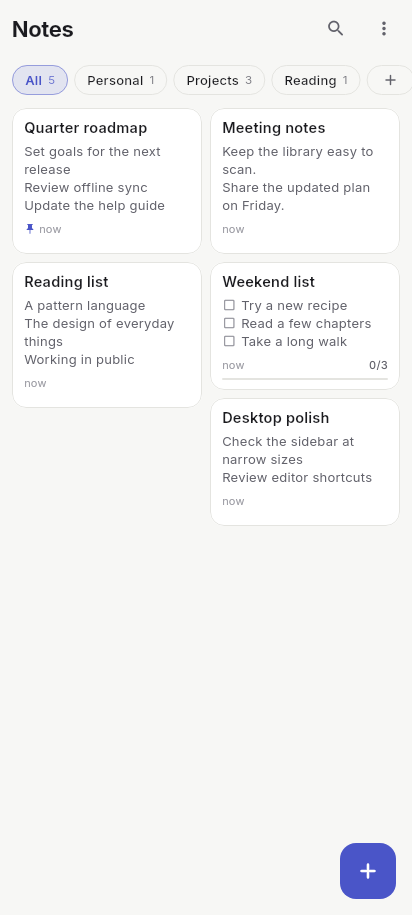
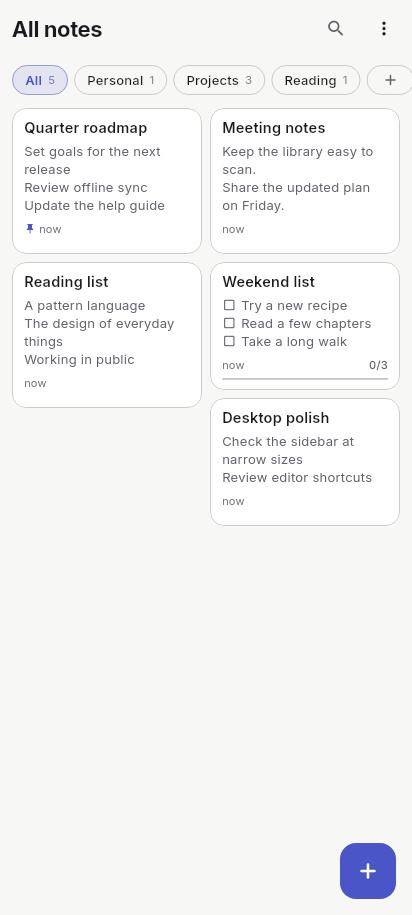
Release 1.1.0 (build 20261124): version, CHANGELOG.md, release notes, docs, README screenshots

Changed region(s): [[0.5534, 0.3978, 0.932, 0.4284], [0.0291, 0.0, 0.2621, 0.0612]]

diff --git a/lib/core/app_version.dart b/lib/core/app_version.dart
@@ -1,9 +1,9 @@
 /// The one place the app learns its own version. `test/core/app_version_test.dart`
 /// checks it against `pubspec.yaml`, so a release bump cannot leave them apart.
-const appVersionName = '1.0.0';
+const appVersionName = '1.1.0';
 
 /// Android versionCode / the pubspec build number. Strictly increasing.
-const appBuildNumber = 20261123;
+const appBuildNumber = 20261124;
 
 /// The version shown in the UI.
 const appVersionText = appVersionName;

diff --git a/README.md b/README.md
@@ -5,7 +5,8 @@ uses a phone layout; on Linux, a desktop sidebar stays beside the library and
 notes open in an editor pane. Notes live in an encrypted local database, with
 optional direct sync between your own devices over a local network. No account
 or cloud service is required. Import and export Markdown notes as well as Notes
-and legacy Notebook backups.
+and legacy Notebook backups. Stable updates can download in the background and
+are installed only after you confirm.
 
 ## Download
 
@@ -14,7 +15,7 @@ and legacy Notebook backups.
 
 [![Get it on Orion Store](https://raw.githubusercontent.com/RookieEnough/Orion-Store/refs/heads/main/assets/orion-badge.png)](https://rookieenough.github.io/Orion-Data/app/?id=notes-app)
 
-The current stable release is [Notes 1.0.0](https://github.com/mmoptibuilds-commits/notes-app/releases/tag/v1.0.0) (build 20261123). Installed
+The current stable release is [Notes 1.1.0](https://github.com/mmoptibuilds-commits/notes-app/releases/tag/v1.1.0) (build 20261124). Installed
 copies of Notes find later stable releases themselves (Settings → About → App
 updates); pre-releases are never offered.
 
@@ -97,15 +98,18 @@ updates an existing installation with an APK signed by the same certificate.
 
 ## Status
 
-Notes 1.0.0 (build 20261123) is the first stable release, published
-2026-11-21: [release page](https://github.com/mmoptibuilds-commits/notes-app/releases/tag/v1.0.0).
+Notes 1.1.0 (build 20261124) is the current stable release:
+[release page](https://github.com/mmoptibuilds-commits/notes-app/releases/tag/v1.1.0).
+The first stable release, Notes 1.0.0, was published 2026-11-21:
+[release page](https://github.com/mmoptibuilds-commits/notes-app/releases/tag/v1.0.0).
 
 On 2026-11-20/21, the app was verified on the owner's Nothing Phone 2 (arm64,
 Android 16) and CachyOS/GNOME laptop: in-place APK upgrade and Linux install
 upgrade kept existing data; QR pairing and automatic LAN sync worked in both
-directions. Tailscale and a real in-app update (which needs a second signed
-release) have not been verified. A firewall subnet change that interrupted
-sync is documented in [Troubleshooting](docs/TROUBLESHOOTING.md).
+directions. The automatic updater now downloads and verifies signed releases,
+but a real in-app upgrade still needs to be verified against a published
+release. Tailscale has not been verified. A firewall subnet change that
+interrupted sync is documented in [Troubleshooting](docs/TROUBLESHOOTING.md).
 
 ## Screenshots
 
@@ -113,6 +117,7 @@ On Linux, a sidebar holds your folders, Archive and Trash, and notes open in
 an editor pane beside the note list:
 
 <p align="center">
+  <img src="docs/screenshots/desktop-library-charcoal.png" alt="Linux desktop: sidebar and note list" width="820" />
   <img src="docs/screenshots/desktop-editor-charcoal.png" alt="Linux desktop: sidebar, note list and editor pane" width="820" />
 </p>
 
@@ -120,9 +125,8 @@ On Android, Notes keeps a phone layout with the formatting toolbar above the
 keyboard:
 
 <p align="center">
-  <img src="docs/screenshots/library.png" alt="Android library" width="205" />
-  <img src="docs/screenshots/note-editor.png" alt="Android editor" width="205" />
   <img src="docs/screenshots/phone-library-light.png" alt="Android library, light theme" width="205" />
+  <img src="docs/screenshots/phone-editor-light.png" alt="Android editor, light theme" width="205" />
 </p>
 
 Screenshots use synthetic notes (`test/visual/review_screens_test.dart`).
@@ -131,7 +135,9 @@ Screenshots use synthetic notes (`test/visual/review_screens_test.dart`).
 
 - **Local-first storage:** notes saved in an encrypted local SQLite database; no account required.
 - **Rich text editing:** headings, lists, checklists, blockquotes, code blocks, links and inline formatting.
-- **Organized library:** folders, search, grid/masonry/list layouts, sorting and preview controls.
+- **Organized library:** Unfiled is the default start view; choose Unfiled, All
+  notes or Last viewed. Folders, search, grid/masonry/list layouts, sorting and
+  preview controls keep notes easy to browse.
 - **Appearance:** AMOLED, charcoal and light themes; adjustable typography and animation preferences.
 - **Import and export:** import Markdown files (one note per file), export a
   note as Markdown, import legacy Notebook backup JSON, and export or restore
@@ -139,6 +145,9 @@ Screenshots use synthetic notes (`test/visual/review_screens_test.dart`).
 - **Device sync:** pair your own devices by QR code or copied code, then sync
   directly over the local network with an encrypted connection. No relay server
   is used.
+- **Stable updates:** Notes checks for stable releases and can download them in
+  the background when automatic updates are enabled. You confirm installation
+  through Android's installer or, on Linux, through a managed installation.
 
 ## Build from source
 
@@ -170,6 +179,7 @@ with a different key cannot update an existing installation. See
 - [Troubleshooting](docs/TROUBLESHOOTING.md)
 - [Development guide](docs/DEVELOPMENT.md)
 - [Release notes](docs/RELEASE_NOTES.md)
+- [Changelog](CHANGELOG.md)
 - [Architecture decisions](docs/DECISIONS.md)
 - [Provenance review](docs/PROVENANCE.md)
 - [Third-party licences](docs/THIRD_PARTY_LICENSES.md)

diff --git a/docs/UPDATES.md b/docs/UPDATES.md
@@ -32,11 +32,13 @@ downloads. Manual Check, Download and Install remain available.
 
 When an automatic check finds a newer signed release, Notes downloads the
 artifact in the background. A partial transfer has a small sidecar bound to its
-HTTPS URL, version, declared size and SHA-256; it records the server ETag when
-available. Resume sends `Range` and `If-Range`, accepts only a matching 206
-`Content-Range`, and restarts from byte zero if the server ignores the range or
-changes its ETag. Notes hashes the complete file before atomically renaming it.
-Cancellation, network loss and low storage leave a recoverable paused state.
+HTTPS URL, version, declared size and SHA-256. Resume is allowed only when the
+partial has a strong server ETag and the server confirms the same ETag and a
+matching 206 `Content-Range` for the requested byte range. If there is no strong
+ETag, the server ignores the range, or the ETag changes, Notes starts a fresh
+download from byte zero. It hashes the complete file before atomically renaming
+it. Cancellation, network loss and low storage leave a recoverable paused
+state; the next attempt still verifies the complete file.
 
 After verification Notes persists a compact ready record containing the raw
 manifest bytes and signature, artifact metadata and release address. Android
@@ -145,10 +147,11 @@ it. Status is written to
 The helper holds `${stateDir}/lock` with `flock` from before its process scan
 through the swap. Startup checks the same lock before opening the database,
 waiting up to ten seconds before showing a clear retry message. The helper
-checks free space on the install parent for extraction and staging before it
-creates either directory. The helper never accesses the notes database,
-keyring, backups, or pairing data. It requires GNU tar, `flock`, `sha256sum`,
-`df`, and `/proc`.
+relaunches the updated Notes app after a successful swap and reopens the
+previous app after a failed update. It checks free space on the install parent
+for extraction and staging before it creates either directory. The helper
+never accesses the notes database, keyring, backups, or pairing data. It
+requires GNU tar, `flock`, `sha256sum`, `df`, `/proc` and `setsid` for relaunch.
 
 Rollback is automatic only when the program-directory swap fails. After a new
 version has opened the database, an older version may reject that database
@@ -166,6 +169,7 @@ permission only after the user taps Install. After replacement, a private
 receiver checks that the pending versionCode matches the installed package and
 posts “Notes updated — tap to open” with an explicit Activity PendingIntent. It
 never launches an Activity from the background. If notifications are denied,
-the next launch shows the one-time “Updated to version X” result instead.
+the update still completes and the next launch shows the one-time “Updated to
+version X” result instead.
 Distribution through Google Play would need to use Play's update flow and
 signing identity rather than direct APK delivery.

diff --git a/CHANGELOG.md b/CHANGELOG.md
@@ -1,0 +1,60 @@
+# Changelog
+
+All notable changes to Notes are recorded here.
+
+## [1.1.0] - 2026-11-21
+
+### Added
+
+- Choose whether Notes opens to Unfiled, All notes or the last viewed library
+  view. Unfiled is the default.
+- Automatic update downloads, a ready-to-install prompt, safe resume after an
+  interrupted download and restoration of a verified ready update after a
+  restart.
+- An Android “Notes updated” notification with a shortcut back to the app.
+- Linux updates that relaunch Notes after replacing a managed installation.
+
+### Changed
+
+- Redesigned the overflow menu, with destinations first and Settings last.
+- Placed Unfiled after All notes in the library navigation and titled the phone
+  view “All notes”.
+- Improved text contrast, card borders and empty-library guidance.
+- Kept phone search results in one column and improved the settings layout at
+  larger text sizes.
+
+### Fixed
+
+- Local edits made during a sync now receive a follow-up sync.
+- Update downloads safely restart when a server cannot confirm a partial file;
+  failed Linux updates reopen the previous app.
+- Improved touch targets and toolbar accessibility at small and large sizes.
+
+### Security
+
+- Release updates continue to use the existing signed manifest and pinned
+  platform signing checks; the trust keys and trust chain are unchanged.
+- A partial update resumes only when the server confirms the same strong ETag.
+  Notes verifies the complete file again before offering installation.
+
+## [1.0.0] - 2026-11-21
+
+### Added
+
+- Encrypted local notes with rich-text editing, search, folders, pinning,
+  archive, Trash, and three appearance themes.
+- Direct encrypted sync between up to five of the owner's devices, with QR or
+  copied-code pairing.
+- Markdown import and export, legacy Notebook backup import, and Notes JSON
+  export and restore.
+- Android phone and Linux desktop layouts, including a persistent desktop
+  sidebar and side-by-side editor.
+- First-run welcome and Help screens, keyboard shortcuts, and settings for
+  appearance, editing and library layout.
+- Signed stable update checks and platform installers for Android and managed
+  Linux installs.
+
+### Security
+
+- Encrypted the local database and authenticated direct device sync.
+- Verified stable update manifests and artifacts before installation.

diff --git a/docs/TROUBLESHOOTING.md b/docs/TROUBLESHOOTING.md
@@ -110,13 +110,16 @@ manual verification steps in the [README](../README.md#verify-a-linux-download).
 **Symptom:** Settings → Updates shows a paused download, a network error or a
 message that there is not enough free space.
 
-**Cause:** Notes keeps a matching partial download so it can resume safely.
-Insufficient storage also prevents the update from being finalized or staged.
+**Cause:** Notes keeps a partial download only when its release details match.
+It resumes only if the server confirms the same strong ETag and byte range;
+otherwise it starts again from the beginning. Insufficient storage can prevent
+the download from completing or, on Linux, prevent staging beside the install.
 
-**Fix:** Reconnect or free space, then choose **Resume download** or **Retry
-download**. Notes validates the resumed response and hashes the complete file
-again before it is marked ready. On Linux, staging also needs free space beside
-the managed installation.
+**Fix:** Reconnect or free space on the device, then choose **Resume download**
+or **Retry download** in Settings → About → App updates. A server without a
+matching strong ETag may cause Notes to download the file again from the start.
+Notes checks the complete file before it is marked ready. Linux also needs free
+space beside the managed installation for staging.
 
 ## Notes says it is finishing an update
 
@@ -124,11 +127,13 @@ the managed installation.
 then open Notes again.”
 
 **Cause:** The Linux update helper holds the per-user lock while it replaces the
-program files. Startup waits for that lock before opening the database.
+program files. Startup waits for that lock before opening the database, for up
+to ten seconds.
 
-**Fix:** Wait for the helper to finish and start Notes again. If the message
-continues after a minute, read `~/.local/state/com.mmoptibuilds.notes/updater/update.json`
-for the helper result and contact the project maintainer.
+**Fix:** Wait for the helper to finish; it relaunches Notes after the swap. If
+the message continues after a minute, read
+`~/.local/state/com.mmoptibuilds.notes/updater/update.json` for the helper
+result and contact the project maintainer.
 
 ## Android says “App not installed”
 

diff --git a/docs/RELEASE_NOTES.md b/docs/RELEASE_NOTES.md
@@ -1,3 +1,43 @@
+# Notes 1.1.0
+
+Notes is a personal, offline-first notes app for Android and Linux. Notes stay
+in an encrypted database on your device. There are no accounts, analytics or
+cloud service.
+
+## What's new
+
+- Choose Unfiled, All notes or Last viewed as the library's start view. Unfiled
+  is selected by default.
+- Stable updates can download in the background when automatic updates are
+  enabled. A verified update stays ready across app restarts and Notes offers
+  **Install now** or **Later** when it is ready.
+- Android shows a “Notes updated” notification after an update. Android 13 and
+  newer may ask for notification permission when you confirm installation;
+  denying permission does not stop the update.
+- Linux in-app updates close and relaunch Notes after updating a managed
+  installation.
+- The library menus, phone search, text contrast and large-text settings layout
+  have been improved. Sync also follows up on edits made during a sync session.
+
+## Upgrading from 1.0.0
+
+Notes 1.0.0 finds 1.1.0 with its update check; open **Settings → Updates**, tap
+**Download**, then **Install…** and confirm. (1.0.0 only checks automatically;
+background downloads start with 1.1.0.) From 1.1.0 on, automatic updates are
+enabled by default and download in the background; you still confirm
+installation. Android hands the verified APK to its system installer. Linux
+updates relaunch the app after the managed program files are replaced. Your
+encrypted notes database and paired devices are kept when you update.
+
+For a manual installation, download the Android arm64 APK or Linux x64 archive
+from the [Notes releases page](https://github.com/mmoptibuilds-commits/notes-app/releases).
+Linux users should verify the signed manifest and archive hash using
+[Verify a Linux download](../README.md#verify-a-linux-download) before
+extracting. An Android APK must use the same signing certificate as your
+existing installation. Do not uninstall first if you need to keep local notes.
+
+---
+
 # Notes 1.0.0
 
 Notes is a personal, offline-first notes app for Android and Linux. Notes stay

diff --git a/docs/INSTALL.md b/docs/INSTALL.md
@@ -49,6 +49,19 @@ The encrypted database at `~/.local/share/com.mmoptibuilds.notes/notes.db`,
 its SQLite sidecar files, keyring key, backups, and pairing state are separate
 from program files. Installation, upgrade, and uninstall preserve them.
 
+## In-app updates on Linux
+
+Open **Settings → About → App updates** to check for a stable release. Automatic
+updates are enabled by default: Notes downloads a verified update in the
+background and shows a prompt when it is ready. You choose whether to install
+it; Notes never installs an update without confirmation.
+
+On Linux, in-app updates work only for a managed install at
+`~/.local/opt/notes`. Notes closes while the helper replaces the program files,
+then relaunches. Startup waits briefly if the helper still holds its update
+lock. For other Linux installs, download and install the new archive using the
+steps above.
+
 ## Uninstall
 
 Run `uninstall.sh` from the extracted archive. It removes program files and

diff --git a/docs/PRODUCT.md b/docs/PRODUCT.md
@@ -42,6 +42,13 @@ simplicity and intuitive editing matter more than feature count.
 - Minimal navigation; advanced controls tucked away.
 - Desktop: keyboard shortcuts, context menus, hover, resizable window.
 
+### Updates
+- Check for stable releases automatically and download verified updates in the
+  background when automatic updates are enabled.
+- Always ask the user to confirm installation. Android uses the system package
+  installer; Linux in-app updates support managed installs and relaunch Notes.
+- Preserve the existing signed-manifest and platform-signing trust checks.
+
 ### Sync
 - Up to five paired devices, no accounts, no always-on server.
 - Each device fully usable offline; changes queue durably.

diff --git a/AGENTS.md b/AGENTS.md
@@ -13,6 +13,7 @@ agent (Claude Code, Codex, Gemini, …). Keep it short; details live in `docs/`.
 | How the code works (layers, data, encryption, sync, UI) | `docs/ARCHITECTURE.md` |
 | Toolchain, commands, testing, visual review | `docs/DEVELOPMENT.md` |
 | Why things are the way they are | `docs/DECISIONS.md` |
+| Release history | `CHANGELOG.md` |
 | Releasing, signing, update trust | `docs/RELEASE.md`, `docs/UPDATES.md` |
 | Installing, troubleshooting | `docs/INSTALL.md`, `docs/TROUBLESHOOTING.md` |
 | Licences and asset provenance | `docs/THIRD_PARTY_LICENSES.md`, `docs/PROVENANCE.md` |
